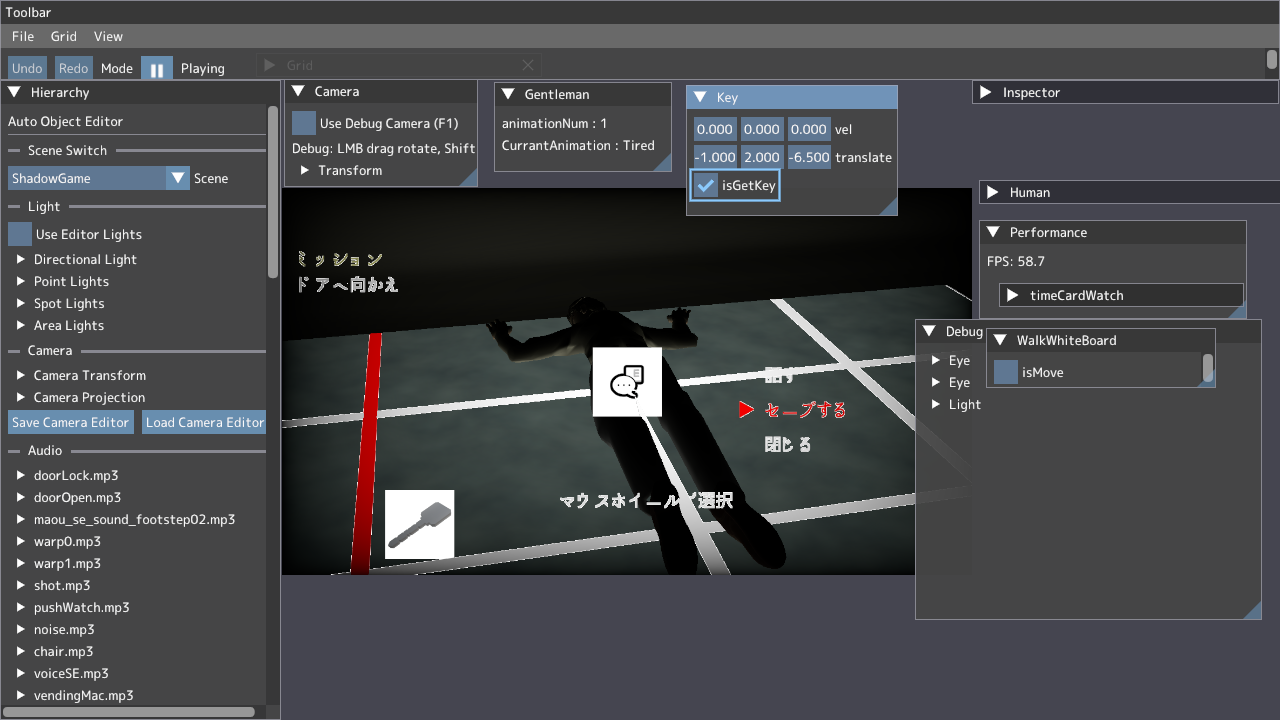
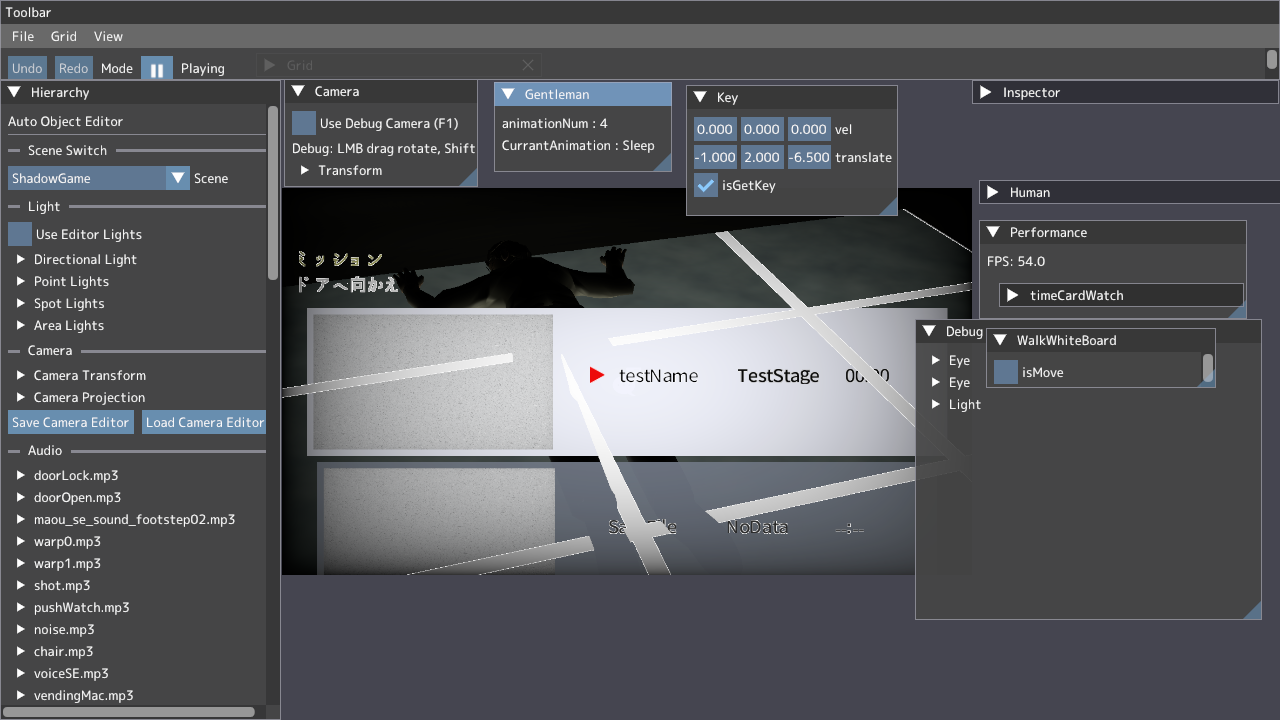
ちょっと改良

diff --git a/project/application/Text/GentlemanMenu/GentlemanMenu.h b/project/application/Text/GentlemanMenu/GentlemanMenu.h
@@ -23,7 +23,7 @@ public:
     static uint32_t GetSelectButtonNum() { return selectButtonNum_; }
     static void SetIsSaveMenuShow(const bool isShowSaveMenu) { isShowSaveMenu_ = isShowSaveMenu; }
     static bool GetIsSaveMenuShow() { return isShowSaveMenu_; }
-    void Save(const int slotIndex);
+    static void Save(const int slotIndex);
 
     static void SetPlayerCamera(PlayerCamera* camera) { playerCamera_ = camera; };
     static void SetPlayerTransform(Transform* transform) { playerTransform_ = transform; };

diff --git a/project/application/GameObject/UI/UIManager.cpp b/project/application/GameObject/UI/UIManager.cpp
@@ -93,7 +93,9 @@ void UIManager::Update() {
 			if (gameContinued_->GetIsSelected()) {
 				int num = gameContinued_->GetCurrentSelectNum();
 				gameContinued_->SetSaveData(num, "testName", "TestStage", "00:00");
+				GentlemanMenu::Save(num);
 				GentlemanMenu::SetIsSaveMenuShow(false);
+				gameContinued_->SetIsSelected(false);
 			}
 
 		}

diff --git a/project/application/GameObject/UI/GameContinued/GameContinued.h b/project/application/GameObject/UI/GameContinued/GameContinued.h
@@ -35,4 +35,5 @@ public:
 	void SetSaveData(int index, const std::string& name, const std::string& currentStageName, const std::string& saveDateTime);
 	int GetCurrentSelectNum() const { return currentSelectNum_; }
 	bool GetIsSelected() const { return isSelected_; }
+	void SetIsSelected(const bool isSelected) { isSelected_ = isSelected; }
 };
